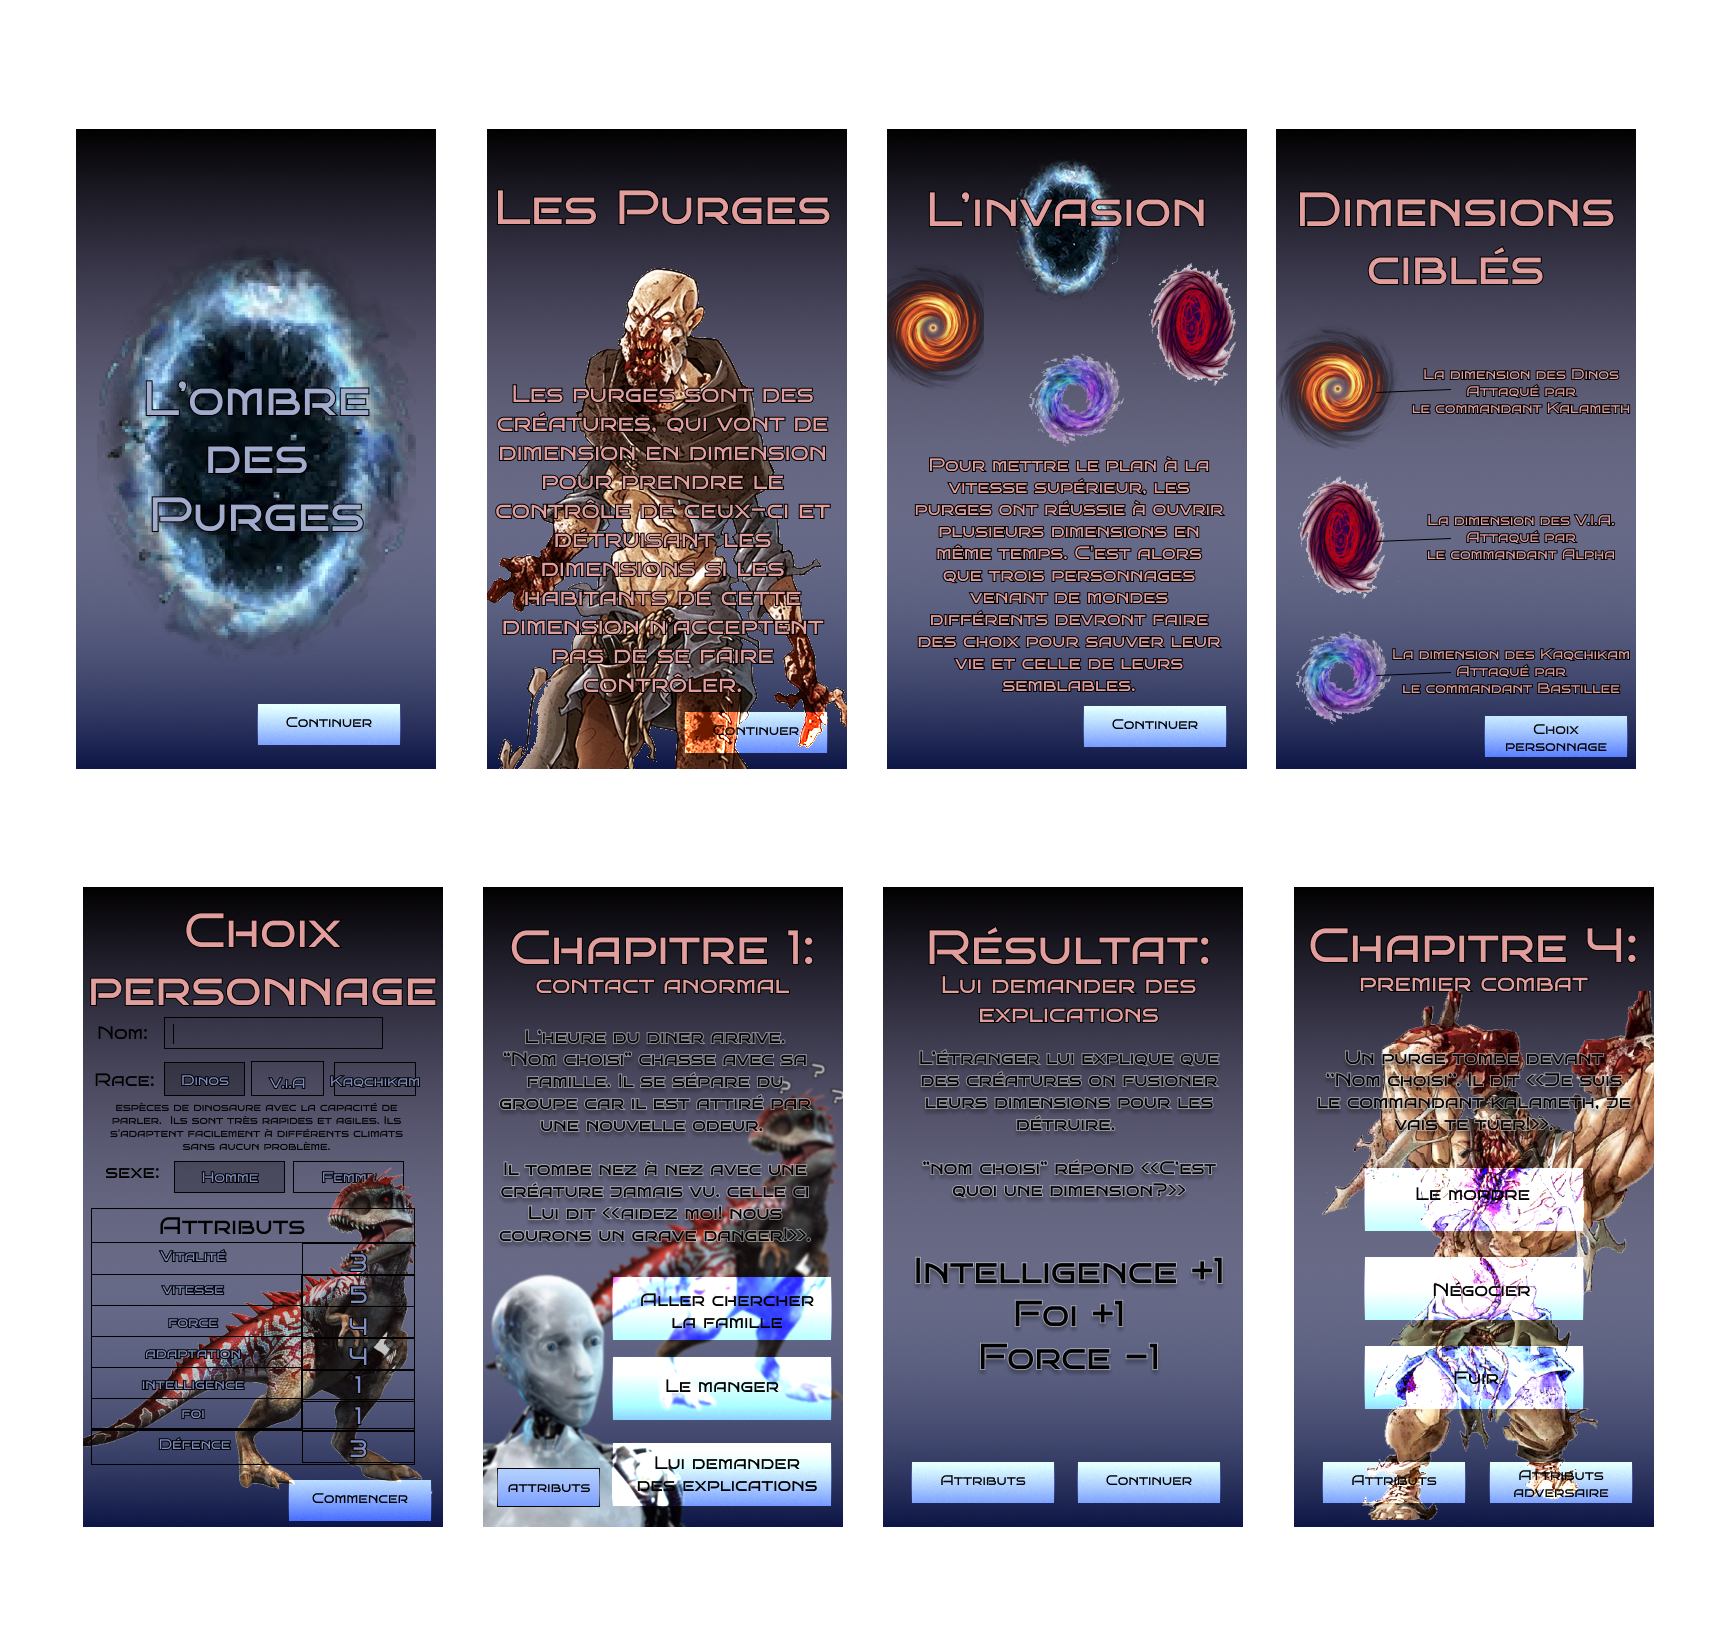
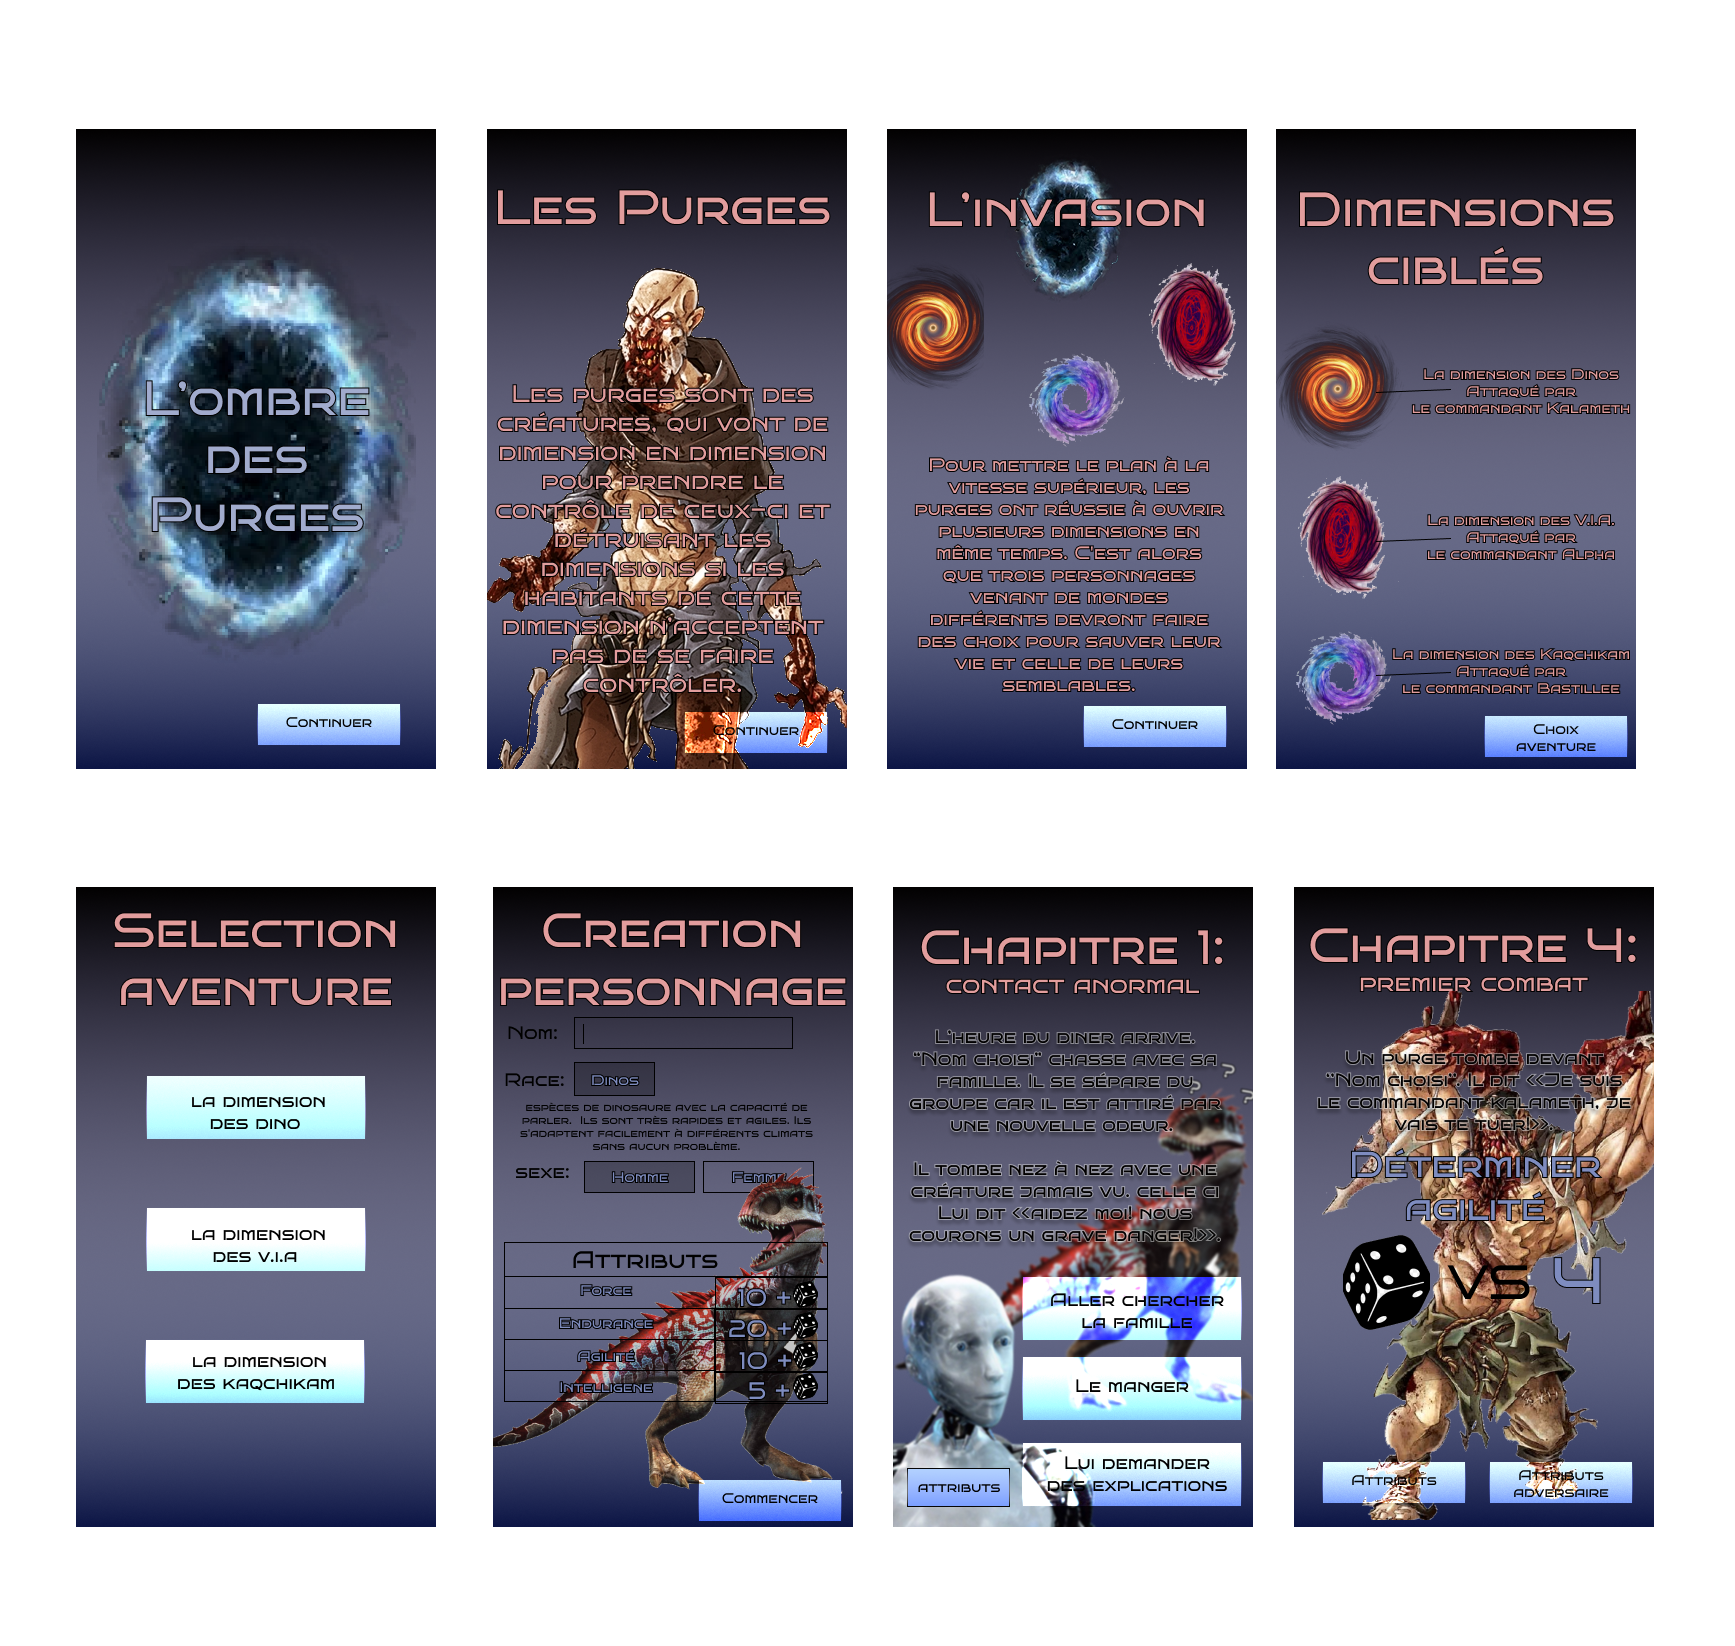
Création des chapitres et choix + Navigation fonctionnelle

Changed region(s): [[0.0311, 0.5267, 0.747, 0.9295], [0.7781, 0.6817, 0.9337, 0.8676], [0.8715, 0.4338, 0.9026, 0.4648]]

diff --git a/LombredesPurges/app/src/main/java/com/example/lombredespurges/Chapitre.java b/LombredesPurges/app/src/main/java/com/example/lombredespurges/Chapitre.java
@@ -1,21 +1,30 @@
 package com.example.lombredespurges;
 
-import android.app.Activity;
 import android.os.Bundle;
 import android.view.LayoutInflater;
 import android.view.View;
 import android.view.ViewGroup;
+import android.widget.Button;
 import android.widget.ImageView;
 import android.widget.TextView;
 
 import androidx.annotation.NonNull;
 import androidx.annotation.Nullable;
 import androidx.fragment.app.Fragment;
+import androidx.navigation.NavController;
+import androidx.navigation.Navigation;
 
 public class Chapitre extends Fragment {
 
     //TextView texteRecu;
     ImageView raceChap;
+    TextView texteChapitre;
+    TextView texteTitre;
+    Button choix1;
+    Button choix2;
+    Button choix3;
+    Button pageTitre;
+    NavController navController;
 
     public Chapitre() {
         // Required empty public constructor
@@ -29,7 +38,6 @@ public class Chapitre extends Fragment {
     }
 
     public void changerImage() {
-
         String nomRace = getArguments().getString("nomRace");
 
         if (nomRace.equals("via")) {
@@ -39,6 +47,69 @@ public class Chapitre extends Fragment {
         } else if (nomRace.equals("dino")) {
             raceChap.setImageDrawable(getResources().getDrawable(R.drawable.dinoh));
         }
+    }
+
+
+    public void choixChemin(String _numeroChapitre, int texte,int choixUn,int choixDeux,int choixTrois){
+        texteTitre.setText(_numeroChapitre);
+        texteChapitre.setText(texte);
+        choix1.setText(choixUn);
+        choix2.setText(choixDeux);
+        choix3.setText(choixTrois);
+    }
+
+    public void cheminFinal(String _texteFin, int texte){
+        String nom = getArguments().getString("nom");
+        texteTitre.setText(_texteFin + nom);
+        texteChapitre.setText(texte);
+        choix1.setVisibility(View.GONE);
+        choix2.setVisibility(View.GONE);
+        choix3.setVisibility(View.GONE);
+        pageTitre.setVisibility(View.VISIBLE);
+        pageTitre.setOnClickListener(new View.OnClickListener() {
+            @Override
+            public void onClick(View v) {
+                navController.navigate(R.id.pageTitre);
+            }
+        });
+    }
+
+    public void gestionChapitre4_1() {
+        choixChemin("Chapitre 4",R.string.chapitre4_1Dino,R.string.choix1_4_1,R.string.choix2_4_1,R.string.choix3_4_1);
+        choix1.setOnClickListener(new View.OnClickListener() {
+            public void onClick(View v) {
+                cheminFinal("Dommage ", R.string.chapitrefin4Dino);
+            }
+        });
+        choix2.setOnClickListener(new View.OnClickListener() {
+            public void onClick(View v) {
+                cheminFinal("Dommage ", R.string.chapitrefin2Dino);
+            }
+        });
+        choix3.setOnClickListener(new View.OnClickListener() {
+            public void onClick(View v) {
+                cheminFinal("Dommage ", R.string.chapitrefin3Dino);
+            }
+        });
+    }
+
+    public void gestionChapitre4_2(){
+        choixChemin("Chapitre 4",R.string.chapitre4_2Dino,R.string.choix1_4_2,R.string.choix2_4_2,R.string.choix3_4_2);
+        choix1.setOnClickListener(new View.OnClickListener() {
+            public void onClick(View v) {
+                cheminFinal("Bravo ",R.string.chapitrefin5Dino);
+            }
+        });
+        choix2.setOnClickListener(new View.OnClickListener() {
+            public void onClick(View v) {
+                cheminFinal("Dommage ",R.string.chapitrefin6Dino);
+            }
+        });
+        choix3.setOnClickListener(new View.OnClickListener() {
+            public void onClick(View v) {
+                cheminFinal("Dommage ",R.string.chapitrefin7Dino);
+            }
+        });
     }
 
     @Override
@@ -58,11 +129,192 @@ public class Chapitre extends Fragment {
         super.onViewCreated(view, savedInstanceState);
 
         raceChap = view.findViewById(R.id.raceChap);
-
+        texteTitre = view.findViewById(R.id.texteTitre);
+        texteChapitre = view.findViewById(R.id.texteChapitre);
+        choix1 = view.findViewById(R.id.buttonChoix1);
+        choix2 = view.findViewById(R.id.buttonChoix2);
+        choix3 = view.findViewById(R.id.buttonChoix3);
+        pageTitre = view.findViewById(R.id.buttonMenu);
+        navController = Navigation.findNavController(view);
         changerImage();
+        texteTitre.setText("Chapitre 1");
+        texteChapitre.setText(R.string.chapitre1Dino);
+        choix1.setText(R.string.choix1_1);
+        choix2.setText(R.string.choix2_1);
+        choix3.setText(R.string.choix3_1);
+        choix1.setVisibility(View.VISIBLE);
+        choix2.setVisibility(View.VISIBLE);
+        choix3.setVisibility(View.VISIBLE);
+        pageTitre.setVisibility(View.GONE);
 
-        /*String nom = getArguments().getString("nom");
-        texteRecu = view.findViewById(R.id.texteRecu);
-        texteRecu.setText(nom);*/
+        choix1.setOnClickListener(new View.OnClickListener() {
+                    @Override
+                    public void onClick(View v) {
+                        choixChemin("Chapitre 2",R.string.chapitre2_1Dino,R.string.choix1_2_1,R.string.choix2_2_1,R.string.choix3_2_1);
+                        choix1.setOnClickListener(new View.OnClickListener() {
+                            @Override
+                            public void onClick(View v) {
+                                choixChemin("Chapitre 3",R.string.chapitre3_1Dino,R.string.choix1_3_1,R.string.choix2_3_1,R.string.choix3_3_1);
+                                choix1.setOnClickListener(new View.OnClickListener() {
+                                    @Override
+                                    public void onClick(View v) {
+                                        cheminFinal("Dommage ",R.string.chapitrefin1Dino);
+                                    }
+                                });
+                                choix2.setOnClickListener(new View.OnClickListener() {
+                                    @Override
+                                    public void onClick(View v) {
+                                        gestionChapitre4_1();
+                                    }
+                                });
+                                choix3.setOnClickListener(new View.OnClickListener() {
+                                    @Override
+                                    public void onClick(View v) {
+                                        gestionChapitre4_2();                                    }
+                                });
+                            }
+                        });
+                        choix2.setOnClickListener(new View.OnClickListener() {
+                            @Override
+                            public void onClick(View v) {
+                                cheminFinal("Dommage ",R.string.chapitre3_2Dino);
+                            }
+                        });
+                        choix3.setOnClickListener(new View.OnClickListener() {
+                            @Override
+                            public void onClick(View v) {
+                                cheminFinal("Dommage ",R.string.chapitre3_3Dino);
+                            }
+                        });
+
+                    }
+                }
+        );
+
+        choix2.setOnClickListener(new View.OnClickListener() {
+                    @Override
+                    public void onClick(View v) {
+                        choixChemin("Chapitre 2",R.string.chapitre2_2Dino,R.string.choix1_2_2,R.string.choix2_2_2,R.string.choix3_2_2);
+                        choix1.setOnClickListener(new View.OnClickListener() {
+                            @Override
+                            public void onClick(View v) {
+                                choixChemin("Chapitre 3",R.string.chapitre3_1Dino,R.string.choix1_3_1,R.string.choix2_3_1,R.string.choix3_3_1);
+                                choix1.setOnClickListener(new View.OnClickListener() {
+                                    @Override
+                                    public void onClick(View v) {
+                                        cheminFinal("Dommage ",R.string.chapitrefin1Dino);
+                                    }
+                                });
+                                choix2.setOnClickListener(new View.OnClickListener() {
+                                    @Override
+                                    public void onClick(View v) {
+                                        gestionChapitre4_1();
+                                    }
+                                });
+                                choix3.setOnClickListener(new View.OnClickListener() {
+                                    @Override
+                                    public void onClick(View v) {
+                                        gestionChapitre4_2();
+                                    }
+                                });
+                            }
+                        });
+                        choix2.setOnClickListener(new View.OnClickListener() {
+                            @Override
+                            public void onClick(View v) {
+                                choixChemin("Chapitre 3",R.string.chapitre3_2Dino,R.string.choix1_3_2,R.string.choix2_3_2,R.string.choix3_3_2);
+                                choix1.setOnClickListener(new View.OnClickListener() {
+                                    @Override
+                                    public void onClick(View v) {
+                                        cheminFinal("Dommage ",R.string.chapitrefin1Dino);
+                                    }
+                                });
+                                choix2.setOnClickListener(new View.OnClickListener() {
+                                    @Override
+                                    public void onClick(View v) {
+                                        gestionChapitre4_1();
+                                    }
+                                });
+                                choix3.setOnClickListener(new View.OnClickListener() {
+                                    @Override
+                                    public void onClick(View v) {
+                                        gestionChapitre4_2();
+                                    }
+                                });
+                            }
+                        });
+                        choix3.setOnClickListener(new View.OnClickListener() {
+                            @Override
+                            public void onClick(View v) {
+                                cheminFinal("Dommage ",R.string.chapitre3_3Dino);
+                            }
+                        });
+                    }
+                }
+        );
+
+        choix3.setOnClickListener(new View.OnClickListener() {
+                    @Override
+                    public void onClick(View v) {
+                        choixChemin("Chapitre 2",R.string.chapitre2_3Dino,R.string.choix1_2_3,R.string.choix2_2_3,R.string.choix3_2_3);
+                        choix1.setOnClickListener(new View.OnClickListener() {
+                            @Override
+                            public void onClick(View v) {
+                                choixChemin("Chapitre 3",R.string.chapitre3_6Dino,R.string.choix1_3_6,R.string.choix2_3_6,R.string.choix3_3_6);
+                                choix1.setOnClickListener(new View.OnClickListener() {
+                                    @Override
+                                    public void onClick(View v) {
+                                        cheminFinal("Dommage ",R.string.chapitrefin1Dino);
+                                    }
+                                });
+                                choix2.setOnClickListener(new View.OnClickListener() {
+                                    @Override
+                                    public void onClick(View v) {
+                                        gestionChapitre4_1();
+                                    }
+                                });
+                                choix3.setOnClickListener(new View.OnClickListener() {
+                                    @Override
+                                    public void onClick(View v) {
+                                        gestionChapitre4_2();
+                                    }
+                                });
+                            }
+                        });
+                        choix2.setOnClickListener(new View.OnClickListener() {
+                            @Override
+                            public void onClick(View v) {
+                                choixChemin("Chapitre 3",R.string.chapitre3_5Dino,R.string.choix1_3_5,R.string.choix2_3_5,R.string.choix3_3_5);
+                                choix1.setOnClickListener(new View.OnClickListener() {
+                                    @Override
+                                    public void onClick(View v) {
+                                        cheminFinal("Dommage ",R.string.chapitrefin1Dino);
+                                    }
+                                });
+                                choix2.setOnClickListener(new View.OnClickListener() {
+                                    @Override
+                                    public void onClick(View v) {
+                                        gestionChapitre4_1();
+                                    }
+                                });
+                                choix3.setOnClickListener(new View.OnClickListener() {
+                                    @Override
+                                    public void onClick(View v) {
+                                        gestionChapitre4_2();
+                                    }
+                                });
+                            }
+                        });
+                        choix3.setOnClickListener(new View.OnClickListener() {
+                            @Override
+                            public void onClick(View v) {
+                                cheminFinal("Dommage ",R.string.chapitrefin1Dino);
+                            }
+                        });
+                    }
+                }
+        );
     }
+
+
 }
